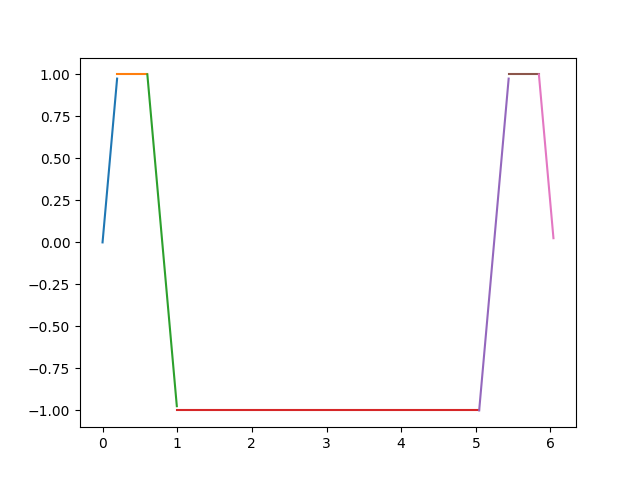
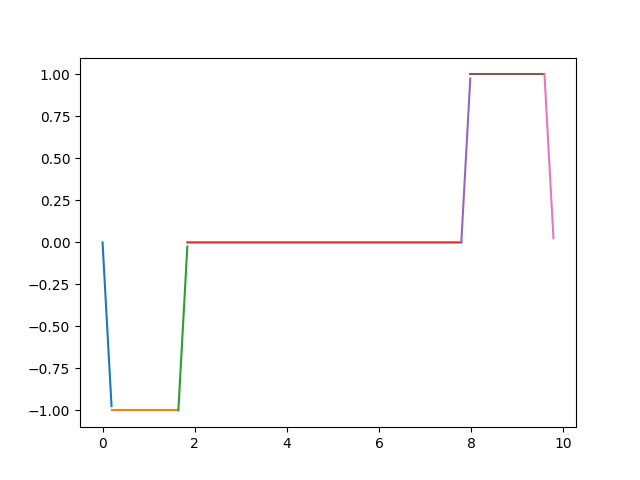
final bugfixes on feasibility, S2 rot angle, reverse C2 calc

diff --git a/BackmanAlgorithm/SmoothPlanner.py b/BackmanAlgorithm/SmoothPlanner.py
@@ -1,20 +1,27 @@
+#!/usr/bin/env python3
+
 import numpy as np
 from numpy import sin, cos, tan
-from ODESolver import RungeKutta4
 from StateSpaces import SmoothPathState
 from scipy.integrate import odeint
 from scipy.integrate import solve_ivp
 import matplotlib.pyplot as plt
-from PathSegment import SpiralSegment, CCSegment, LineSegment, C2ArcSegment, C2LineSegment
+from PathSegment import SpiralSegment, CCSegment, LineSegment, C2ArcSegment, C2LineSegment, FullPath
 
 class SmoothPathPlanner:
     """ class for implementation of backman algorithm"""
 
     def __init__(self):
-        self.path = np.array([])
+        pass
 
     def setConstraints(self, kConstraints, vConstraints, headlandSpeed, headlandSpeedReverse):
         """ Set constraints on K, Kdot, Kddot, V, Vdot, Vddot, speed in headland and reverse speed in headland. """
+
+        if headlandSpeed > vConstraints[0]:
+            raise ValueError("Headland Speed should not be larger than V Max")
+
+        if headlandSpeedReverse > vConstraints[1]:
+            raise ValueError("Headland Speed in reverse should not be smaller than V Min")
 
         self.kMax = kConstraints[0]
         self.kMin = kConstraints[1]
@@ -33,11 +40,12 @@ class SmoothPathPlanner:
         self.headlandSpeed = headlandSpeed
         self.headlandSpeedReverse = headlandSpeedReverse
 
+
     def setStartAndGoal(self, initalState, finalState):
-        """ Set Start and Goal States, both states must be SE2States """
+        """ Set Start and Goal States, both states must be SmoothPathStates"""
 
         if not (isinstance(initalState, SmoothPathState) and isinstance(initalState, SmoothPathState)):
-            raise TypeError('Start and Goal not SE2States')
+            raise TypeError('Start and Goal not SmoothPathStates')
         else:
             self.initialState = initalState
             self.finalState = finalState
@@ -125,6 +133,12 @@ class SmoothPathPlanner:
             extension = vTrajIn[0]*np.ones(len(kTrajIn) - len(vTrajIn))
             vTraj = np.append(extension, vTrajIn, axis = 0)
             leftover = vTrajIn[0]*np.ones(2)
+        elif (len(kTrajIn) == len(vTrajIn)) and not fromStart:
+            leftover = vTrajIn[-1]*np.ones(2)
+            vTraj = vTrajIn
+        elif (len(kTrajIn) == len(vTrajIn)) and fromStart:
+            leftover = vTrajIn[0]*np.ones(2)
+            vTraj = vTrajIn
 
         return {'kTraj': kTrajIn, 'vTraj': vTraj, 'cutV': cutV, 'leftover': leftover }
 
@@ -152,6 +166,10 @@ class SmoothPathPlanner:
         rk = cos(S2[-1][2]) * (omega_S2_tS2[1] - S2[-1][1]) - sin(S2[-1][2]) * (omega_S2_tS2[0] - S2[-1][0])
         rkplus1 = cos(S3[0][2]) * (omega_S3_tC3[1] - S3[0][1]) - sin(S3[0][2]) * (omega_S3_tC3[0] - S3[0][0])
         d = np.linalg.norm(self.omega_kplus2 - self.omega_k)
+        
+        if np.abs(rkplus1 - rk) > d:
+            raise Exception
+
         w = np.arcsin((rkplus1 - rk)/d)
         vec = self.omega_kplus2 - self.omega_k
 
@@ -206,9 +224,10 @@ class SmoothPathPlanner:
 
         return self.omega_kplus1
 
-    def plotPath(self, plotCircles = False, plotArrows = False):
+    def plotPaths(self, plotCircles = False, plotArrows = False):
 
         plt.figure(0)
+        plt.clf()
         
         plt.plot([i[0] for i in self.S1.poses], [i[1] for i in self.S1.poses])
         plt.plot([i[0] for i in self.S2.poses], [i[1] for i in self.S2.poses])
@@ -244,6 +263,7 @@ class SmoothPathPlanner:
     def plotControls(self):
 
         plt.figure(1)
+        plt.clf()
 
         timeseries_S1 = np.array([i*self.dT for i in range(len(self.S1.controls))])
         timeseries_C1 = np.array([i*self.dT for i in range(len(self.C1.controls))]) + timeseries_S1[-1]
@@ -264,6 +284,7 @@ class SmoothPathPlanner:
         plt.savefig("velProfile.png")
 
         plt.figure(2)
+        plt.clf()
 
         plt.plot(timeseries_S1, [i[1] for i in self.S1.controls])
         plt.plot(timeseries_C1, [i[1] for i in self.C1.controls])
@@ -387,7 +408,7 @@ class SmoothPathPlanner:
                 try:
                     self.calculateConstantArcs()
                 except: #can't use this turning type
-                    break 
+                    return 0 
                 
                 ################ place S2 and S3 segments ################
                 
@@ -408,42 +429,53 @@ class SmoothPathPlanner:
             else: #center is a line
 
                 ################ place S2 and S3 segments ################
-                self.phi_C2 = self.calculateCenterLine()
+                try:
+                    self.phi_C2 = self.calculateCenterLine()
+                except: #can't use this turning type
+                    return 0
+                
                 self.S2.placePath(self.S1.poses[-1][0], self.S1.poses[-1][1], self.S1.poses[-1][2])
-                rotAngle = -1*self.phi_C2 - self.S2.poses[-1][2]
+                rotAngle = self.phi_C2 - self.S2.poses[-1][2]
                 self.S2.rotateAboutPoint(self.omega_k[0], self.omega_k[1], rotAngle)
 
                 self.S3.placePath(self.S4.poses[0][0], self.S4.poses[0][1], self.S4.poses[0][2], False)
                 rotAngle = self.phi_C2 - self.S3.poses[0][2]
                 self.S3.rotateAboutPoint(self.omega_kplus2[0], self.omega_kplus2[1], rotAngle)
 
-                #check if they intersect
+                #Check Feasilbility
                 if self.S2.pathIntersectsWith(self.S3):
                     self.k_C2 = self.k_C2 - np.sign(self.k_C2)*0.1*self.kMax #increases or decreases the center curvature toward k_end
-                    # TODO: implemetnation for RSL LSR cases?
                     continue
                 
+
                 ################ make C2 segment ################
                 self.C2 = C2LineSegment(v_C21, v_C22, self.S2.poses[-1], self.S3.poses[0], self.dT)
 
             ################ generate C1 and C3 ################
             self.C1 = CCSegment(self.k_C1, v_C1, self.S1.poses[-1], self.S2.poses[0], self.omega_k, self.dT)
-            self.vC1_index_new = self.C1.v_index
+            if not(hasattr(self,'vC1_index_new')):
+                self.vC1_index_new = self.C1.v_index
             
-            self.C3 = CCSegment(self.k_C3, v_C3, self.S3.poses[-1], self.S4.poses[0], self.omega_kplus2, self.dT)
+            self.C3 = CCSegment(self.k_C3, v_C3[min(self.vC3_index,len(v_C3)-1):len(v_C3)], self.S3.poses[-1], self.S4.poses[0], self.omega_kplus2, self.dT)
             if not(hasattr(self,'vC3_index_new')):
                 self.vC3_index_new = len(v_C3) - self.C3.v_index
 
             ################ Check Feasbility ################
             self.path_is_not_feasible = False
 
-            if self.C1.angle > np.pi:
+            if np.abs(self.C1.angle) > 1.9*np.pi:
                 self.k_C1 = self.k_C1 - np.sign(self.k_C1)*0.1*self.kMax
+                if np.abs(self.k_C1) < 10**-10:
+                    return 0
+                
                 self.path_is_not_feasible = True
                 continue
 
-            if self.C3.angle > np.pi:
+            if np.abs(self.C3.angle) > 1.9*np.pi:
                 self.k_C3 = self.k_C3 - np.sign(self.k_C3)*0.1*self.kMax
+                if np.abs(self.k_C3) <= 10**-10:
+                    return 0 
+
                 self.path_is_not_feasible = True
                 continue
             
@@ -455,29 +487,22 @@ class SmoothPathPlanner:
                 self.vC3_index = self.vC3_index_new
                 self.path_is_not_feasible = True
             
-            if (self.C1.arcLen < self.dT*self.vMax) and (np.linalg.norm(self.S2.poses[0][0:2] - self.S1[-1][0:2]) > self.dT*self.vMax):
+            if (self.C1.arcLen < self.dT*self.vMax) and (np.linalg.norm(self.S2.poses[0][0:2] - self.S1.poses[-1][0:2]) > self.dT*self.vMax):
                 return 0
 
-            if (self.C3.arcLen < self.dT*self.vMax) and (np.linalg.norm(self.S4.poses[0][0:2] - self.S3[-1][0:2]) > self.dT*self.vMax):
+            if (self.C3.arcLen < self.dT*self.vMax) and (np.linalg.norm(self.S4.poses[0][0:2] - self.S3.poses[-1][0:2]) > self.dT*self.vMax):
                 return 0
             
-            
-            
-
-
-            
-            
-
-        
-        self.plotPath()
+        self.plotPaths()
         self.plotControls()
-        return self.path
+
+        return FullPath(self.dT, self.S1, self.C1, self.S2, self.C2, self.S3, self.C3, self.S4)
 
 def main():
 
     # x pos., ypos., orientation, speed, curvature
     initialState = SmoothPathState(0, 0, 0.5*np.pi, 0.8, 0)
-    finalState = SmoothPathState(1.2, 0, -0.5*np.pi, 0.8, 0)
+    finalState = SmoothPathState(8.2, 2, 0.5*np.pi, 0.8, 0)
     L_w = 1.0
     gamma_max = np.pi/4.0
     
@@ -502,15 +527,9 @@ def main():
     headlandSpeed = vMax
     headlandSpeedReverse = vMin
 
-    if headlandSpeed > vMax:
-        raise ValueError("Headland Speed should not be larger than V Max")
-
-    if headlandSpeedReverse > vMin:
-        raise ValueError("Headland Speed in reverse should not be smaller than Vmin")
-
     vConstraints = [vMax, vMin, vDotMax, vDotMin, vDDotMax, vDDotMin]
 
-    RSR = [kMin, 0.0, kMin, False]
+    RSR = [kMin, 0, kMin, False]
     LSL = [kMax, 0, kMax, False]
     LRL = [kMax, kMin, kMax, False]
     RLR = [kMin, kMax, kMin, False]
@@ -519,20 +538,57 @@ def main():
     R1L1R = [kMin, kMax, kMin, True]
     L1R1L = [kMax, kMin, kMax, True]
 
-    planSmoothInst = SmoothPathPlanner()
+    turningTypes = [RSR,LSL,LRL,RLR,LSR,RSL,R1L1R,L1R1L]
 
-    pathType = LRL
-    planSmoothInst.setConstraints(
-        kConstraints, vConstraints, headlandSpeed, headlandSpeedReverse)
-    planSmoothInst.setNominalCurvatures(
-        pathType[0], pathType[1], pathType[2], pathType[3])
-    planSmoothInst.setStartAndGoal(initialState, finalState)
+    shortestPathFinalTime = np.inf
 
-    path = planSmoothInst.plan(dT)
+    for i in range(len(turningTypes)):
+        turningTypeNames = ['RSR','LSL','LRL','RLR','LSR','RSL','R1L1R','L1R1L']
+        pathType = turningTypes[i]
 
-    # TODO: Fix discontinuity in C2
-    # TODO: fix how vC3 wont continue to vS4[0]
-    # TODO: Should always end at vFinal, why isn't it?
+        planSmoothInst = SmoothPathPlanner()
+        planSmoothInst.setConstraints(kConstraints, vConstraints, headlandSpeed, headlandSpeedReverse)
+        planSmoothInst.setNominalCurvatures(pathType[0], pathType[1], pathType[2], pathType[3])
+        planSmoothInst.setStartAndGoal(initialState, finalState)
+
+        path = planSmoothInst.plan(dT)
+
+        if path == 0:
+            print("Path of type: ",turningTypeNames[i], " won't work, continuing to", turningTypeNames[min(i+1, len(turningTypeNames)- 1)])
+            continue
+        elif path.finalTime < shortestPathFinalTime:
+            shortestPath = path
+            shortestPathType = turningTypeNames[i]
+            shortestPathFinalTime = path.finalTime
+
+        print(path.finalTime)
+
+        plt.figure(3)
+        plt.clf()
+        plt.plot([i[0] for i in path.poses], [i[1] for i in path.poses])
+        plt.savefig("finalPath.png")
+
+        print("Finished Path Type: ",turningTypeNames[i], ", input to continue to type: ", turningTypeNames[min(i+1, len(turningTypeNames)- 1)])
+        input("...")
+    
+    plt.figure(3)
+    plt.clf()
+    plt.plot([i[0] for i in shortestPath.poses], [i[1] for i in shortestPath.poses])
+    plt.savefig("finalPath.png")
+    print("Shortest Path is of type: ", shortestPathType, " and has a final time of: ", shortestPathFinalTime)
 
 
 main()
+# TODO: don't use scipy integrator, write own rungekutta
+# Document
+# Optional:Get rid of SmoothPathStates and StateSpaces.py
+# put in edge cases for feasibility checking -> RSR LSL cases
+# implement fix for v_C3index problem (or verify that current solution is good)
+# make variable names consistent
+# make spacing consistent
+# make sure tolerances make sense, maybe pass tolerances as parameters
+# get timeseries data in all paths
+
+# TESTING: figure out how to trigger all feasibility checks and see if they function properly
+# Try with very low accelerations
+# try all turning types

diff --git a/BackmanAlgorithm/PathSegment.py b/BackmanAlgorithm/PathSegment.py
@@ -188,7 +188,7 @@ class CCSegment(PathSegment):
             i = i + 1
             if v_index < len(vTraj) - 1:
                 v_index = v_index + 1
-        self.v_index = v_index - vStartIndex
+        self.v_index = v_index
         self.poses = self.poses[0:i] #trim excess
         self.controls = self.controls[0:i] #trim excess
 
@@ -212,14 +212,17 @@ class C2ArcSegment(PathSegment):
         ang2 = np.arctan2(end[1]-center[1], end[0]-center[0])
 
         if reverse:
-            ang1, ang2 = ang2, ang1
+            reverse = -1
+        else:
+            reverse = 1
             
         r = np.linalg.norm(start[0:2]-center)
 
-        if(curvature > 0 and ang2 < ang1):
+
+        if(curvature*reverse > 0 and ang2 < ang1):
             ang2 = ang2 + 2*np.pi
         
-        if(curvature < 0 and ang2 > ang1):
+        if(curvature*reverse < 0 and ang2 > ang1):
             ang2 = ang2 - 2*np.pi
 
         self.angle = ang2-ang1
@@ -237,11 +240,11 @@ class C2ArcSegment(PathSegment):
         v_1_index = 0
         v_2_index = len(v2)-1
 
-        while np.sign(curvature)*(ang1 - ang2) <= 0:
+        while np.sign(curvature*reverse)*(ang1 - ang2) <= 0:
             
             if i%2 == 0: #forward step
                 w = abs(v1[v_1_index])/r
-                ang1 = ang1 + np.sign(curvature)*w*dT
+                ang1 = ang1 + reverse*np.sign(curvature)*w*dT
                 
                 self.poses[i1] = np.array([center[0] + r*cos(ang1), center[1] + r*sin(ang1), ang1 + np.sign(curvature)*np.pi/2.0])
                 self.controls[i1] = np.array([v1[v_1_index], curvature])
@@ -253,7 +256,7 @@ class C2ArcSegment(PathSegment):
 
             else: #back step
                 w = abs(v2[v_2_index])/r
-                ang2 = ang2 + -1*np.sign(curvature)*w*dT
+                ang2 = ang2 + -1*reverse*np.sign(curvature)*w*dT
                 
                 self.poses[i2] = np.array([center[0] + r*cos(ang2), center[1] + r*sin(ang2), ang2 + np.sign(curvature)*np.pi/2.0])
                 self.controls[i2] = np.array([v2[v_2_index], curvature])
@@ -364,3 +367,18 @@ class LineSegment(PathSegment):
 
         self.poses = self.poses[0:i] #trim excess
         self.controls = self.controls[0:i] #trim excess
+
+class FullPath(PathSegment):
+    def __init__(self, *args):
+
+        self.poses = args[1].poses
+        self.controls = args[1].controls
+
+        for path in args[2:len(args)]:
+            self.poses = np.append(self.poses,path.poses,axis=0)
+            self.controls = np.append(self.controls,path.controls,axis=0)
+        
+        self.finalTime = args[0] * len(self.poses)
+
+
+        
